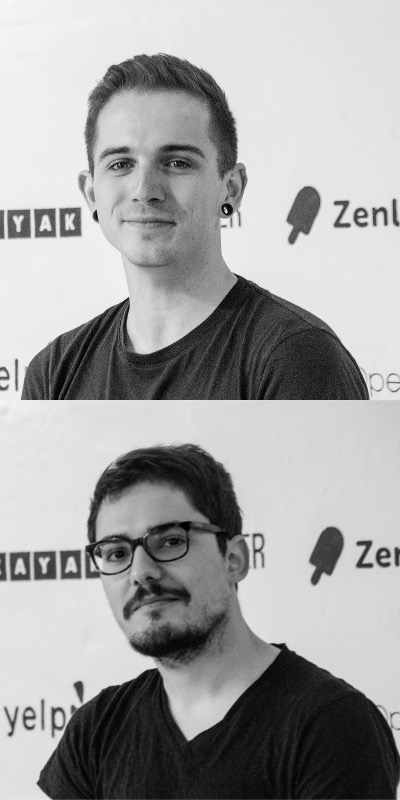
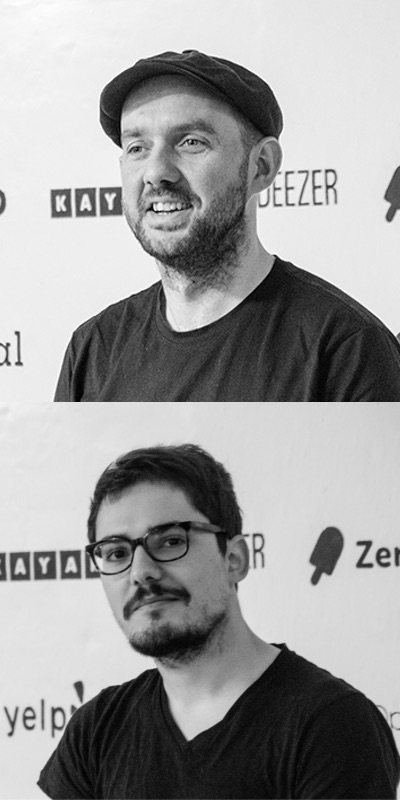
update ASO workshop

Changed region(s): [[0.0, 0.0625, 1.0, 0.5]]

diff --git a/_workshops/appstore-optimization.md b/_workshops/appstore-optimization.md
@@ -1,6 +1,6 @@
 ---
 title: How to set up App Store Optimization (ASO) and Apple Search Ads (ASA) processes to increase your app’s visibility and conversion
-shortTitle:  Mathew Parry & Kevin Bravo
+shortTitle:  Moritz Daan & Kevin Bravo
 presenter: Phiture represented by Kevin Bravo and Mathew Parry
 image: Phiture.jpg
 anchor: appstore-optimization
@@ -32,6 +32,6 @@ includedIn:
 
 Kevin has honed his technical and strategic skills in various startups and environments all over Europe. A regular speaker at conferences involving Growth hacking, mobile app development, analytics and marketing, Kevin now brings in his broad range of expertise to work both as a Growth Consultant and an innovation catalyst at Phiture. Kevin is also a keen Magic student and is seriously handy with a pack of cards.
 
-**About Mathew Parry**
+**About Moritz Daan**
 
-Hailing from the UK, Mathew has worked in numerous media, advertising and start-up companies. Matt brings that valuable mix of experience, on top of a Degree in Film & Media studies, to his role as ASO consultant at Phiture. His account management proficiency has helped us level-up our approach across the team and Matt personally manages our accounts with many internationally recognized apps and mobile games.
+Moritz built and successfully exited two games companies in his early years, publishing several well-known online games in Europe before completing his Master’s degree in Law. Moritz - together with Phiture co-founder Andy - led the growth team at SoundCloud. As a founding partner, Moritz has helped Phiture’s clients with countless ASO efforts and growth consulting - while also authoring the industry-acclaimed Advanced ASO book.
